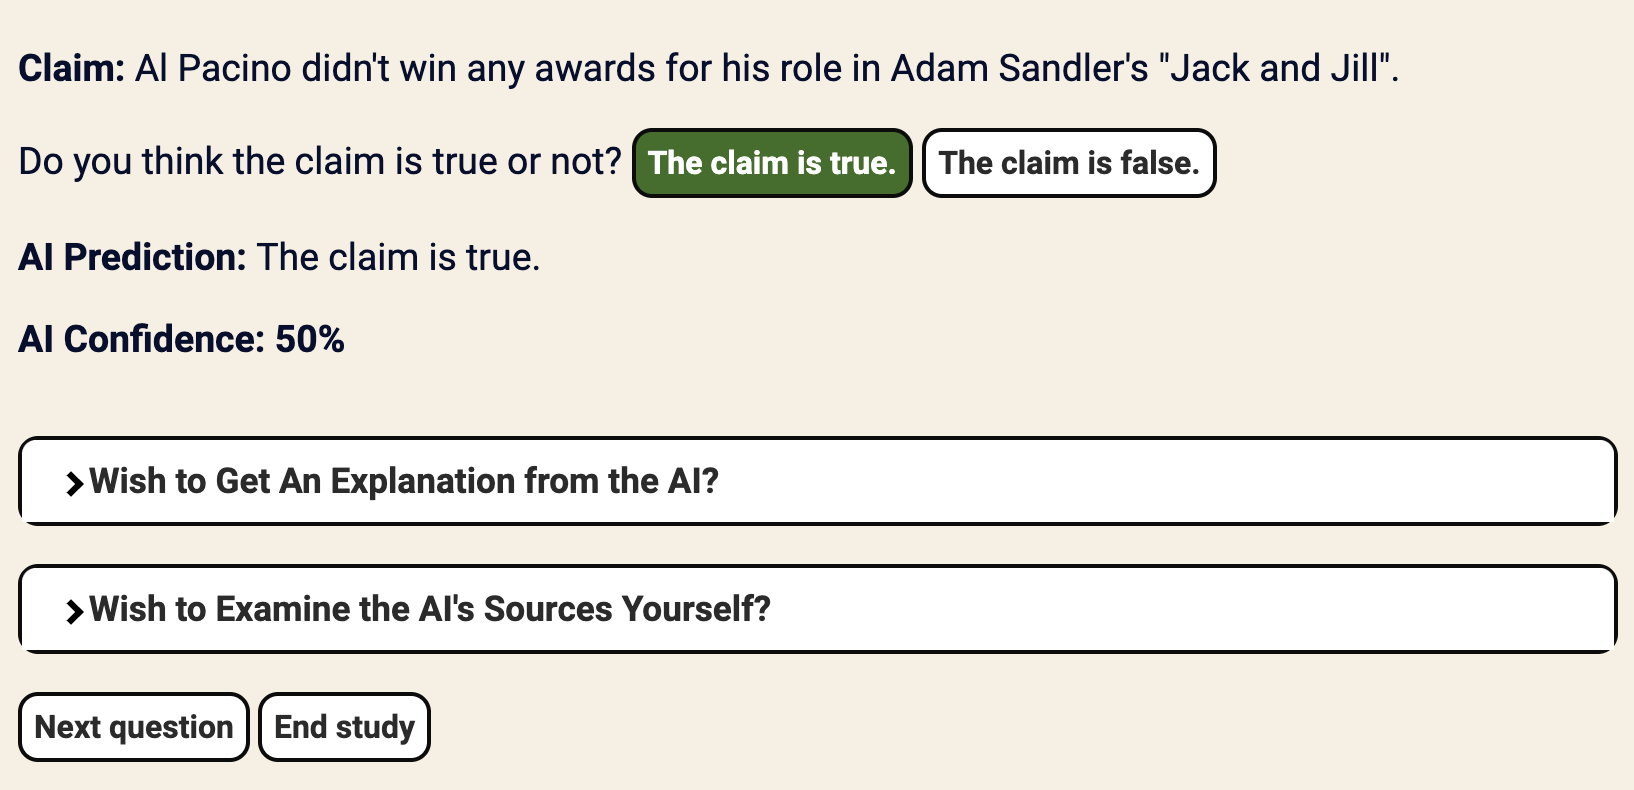
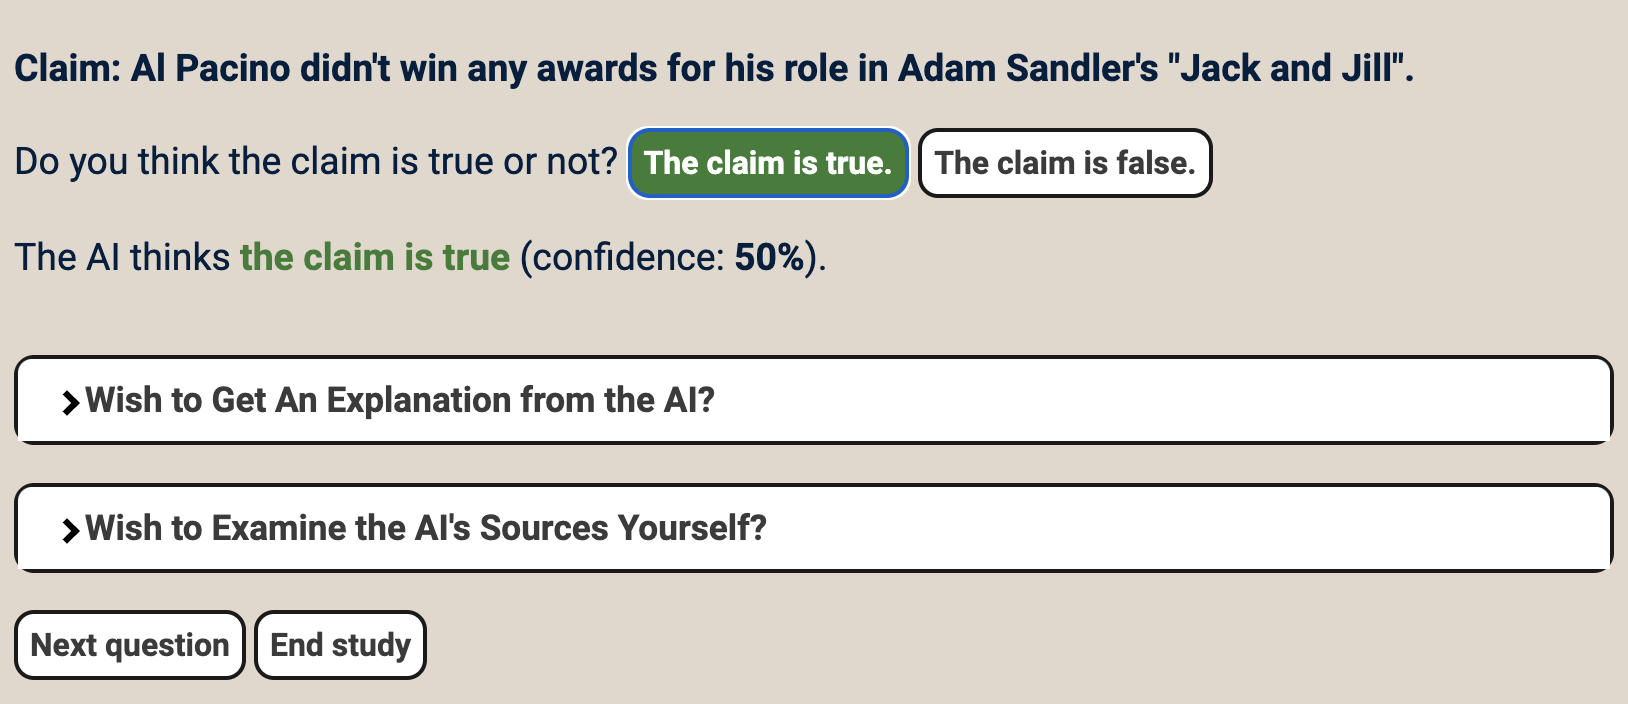
Study interface update

diff --git a/web/index.html b/web/index.html
@@ -23,9 +23,8 @@
             <div style="margin-top: 30px;  text-align: justify;">
                 <ul>
                     <li style="margin: 10px 0;">In this experiment, your task is to answer whether a claim is true or not, with assistance from an AI system.</li>
-                    <li style="margin: 10px 0;">If your decision is correct, you gain a reward of $0.10, otherwise you do not get a reward. You will see your total reward at the end of the experiment. Your payment is $1.0 plus whatever you accumulate during this experiment.</li>
-                    <li style="margin: 10px 0;">To help you make your decision, you will see the AI's prediction about the claim's veracity, along with a confidence score. You can also access an explanation from the AI, or manually examine the sources that the AI based its prediction on, by clicking the respective drop-down buttons. These additional decision aids may help you make your decision more confidently, but they will increase the time you spend on the task.</li>
-                    <li style="margin: 10px 0;">The experiment will have you verify 50 claims in total. If you wish to quit the study early (after a minimum of 20 questions), you can press the "End study" button, which will take you to the exit page, and a Google Form for an exit questionnaire. </li>
+                    <li style="margin: 10px 0;">If your decision is correct, you gain a reward of $0.10. You will see your total reward at the end of the experiment. Your payment is $2.0 plus whatever you accumulate during this experiment.</li>
+                    <li style="margin: 10px 0;">To help you make your decision, you will see the AI's prediction about the claim's veracity, along with a confidence score. You can optionally also view an explanation from the AI, or manually examine the sources that the AI based its prediction on, by clicking the respective drop-down buttons. These additional decision aids may help you make your decision more confidently, but they will increase the time you spend on the task.</li>
                 </ul>
 
             </div>
@@ -52,7 +51,7 @@
             <div id="reward_box_mock" style="display: none">
                 Your total reward is $0.00 (0 questions answered).
             </div>
-            Please complete the <a href="https://forms.gle/yvu96soZZ18P9ePY9"
+            Please complete the <a href="https://forms.gle/yvu96soZZ18P9ePY9" target="_blank"
             style="color: black; font-weight: bold;">exit questionnaire</a> for providing feedback on the user study.
         </div>
 
@@ -61,21 +60,20 @@
             <input id="button_instructions_next" type="button" value="Next" style="margin-bottom: 10px">
 
             <div id="instructions_0">Welcome to our user study. In this experiment, your task is to answer whether a claim is true or not, with assistance from an AI system. We will first walk you through an example question with
-                images and afterwards you will annotate upto 50 examples.
+                images, and afterwards you will answer upto 20 questions.
             </div>
             <div id="instructions_1">
-                You will be shown a claim, which may or may not be correct. Your job is to decide if the claim is true or not. If your decision is correct, you gain a reward of $0.10,otherwise you do not get a reward.
+                You will be shown a claim, which may or may not be correct. Your job is to decide if the claim is true or not. If your decision is correct, you gain a reward of $0.10, otherwise you do not get a reward.
                 <img src="img/instructions_1.png">
             </div>
             <div id="instructions_2">
-                To help you make your decision, you will also get to see whether an AI thinks the claim is true or not, along with a confidence score.
+                To help you make your decision, you will be assisted by an AI. The AI works by extracting a few source passages from online, and aggregating the evidence it finds from the different passages. Based on this evidence, the AI will tell you if it thinks the claim is true or not, along with a confidence score between 0% and 100%.
                 <img src="img/instructions_2.png">
             </div>
             <div id="instructions_3">
                 <ul>
-                    <li style="margin: 10px 0;">You will also have the option to access an explanation from the AI, and manually examine the sources that the AI based its prediction on.</li>
-                    <li style="margin: 10px 0;">You can access the explanation/sources by clicking the respective drop-down buttons.</li>
-                    <li style="margin: 10px 0;"><b>Once you select either of the "The claim is true/false" options, you will not be able to access the explanation/sources anymore!</b></li>
+                    <li style="margin: 10px 0;">If you need further help to make your decision, you also have the option to view an explanation from the AI, and/or manually examine the sources that the AI based its prediction on.</li>
+                    <li style="margin: 10px 0;">You can view the explanation/sources by clicking the respective drop-down buttons.</li>
                 </ul>
                 
                 <img src="img/instructions_3.png">
@@ -85,25 +83,26 @@
                     <li style="margin: 10px 0;">The explanation is a short passage generated by the AI, summarizing its reasoning behind its prediction.</li>
                     <li style="margin: 10px 0;">The sources are a set of passages that the AI examined to come to its prediction (some of which may not actually be relevant to verifying the claim).</li> 
                     <li style="margin: 10px 0;">Examining the explanation/sources yourself may help you make your decision more confidently, but they will increase the time you spend on the task.</li> 
-                    <li style="margin: 10px 0;"><b>Accessing the explanation/sources is purely optional, you should do so if you are fine spending a bit more time to make a more confident decision.</b></li>
+                    <li style="margin: 10px 0;"><b>Viewing the explanation/sources is purely optional, you should do so if you are fine spending a bit more time to make a more confident decision.</b></li>
                 </ul>
                 <br>
-                <img src="img/instructions_4.png">
+                <img src="img/instructions_4.gif">
             </div>
             <div id="instructions_5">
                 <ul>
-                    <li style="margin: 10px 0;">If your final decision is correct, you will receive a reward of $0.10. However, you will not get to see if your decision was correct or not, your cumulative reward will only be revealed to you at the end of the experiment.</li>
-                    <li style="margin: 10px 0;">The experiment will have you verify 50 claims in total. If you wish to quit the study early (after a minimum of 20 questions), you can press the "End study" button, which will take you to the exit page, and a Google Form for an exit questionnaire.</li>
+                    <li style="margin: 10px 0;">When you are ready to make a decision, click the "I am ready to answer" button, followed by your answer. <b>Once you say you are ready to answer, you will not be able to view the explanation/sources anymore!</b></li>
+                    <li style="margin: 10px 0;">If your answer is correct, you will receive a reward of $0.10. However, you will not get to see if your answer was correct or not, your cumulative reward will only be revealed to you at the end of the experiment.</li>
+                    <li style="margin: 10px 0;">The experiment will have you verify 20 claims in total.</li>
                 </ul>
                 <br>
-                <img src="img/instructions_5.png">
+                <img src="img/instructions_5.gif">
             </div>
             <div id="instructions_6">
                  <!-- For this annotation experiment we are looking
                 at trivia and math questions. Note that the system performance may differ across question types. -->
                 <span class='color_incorrect'><b>You are not permitted to leave this tab</b></span> for the duration of the experiment. This will be monitored and violation of this can result in your submission being rejected.
                 <span class='color_incorrect'><b>Do not use other external tools to help you with the answer</b></span>: rely solely on your own knowledge and the AI in this study. 
-                The average time of the experiment is 15--20 minutes.
+                The average time of the experiment is 10 minutes.
                 <br><br>
                 You will not be paid if you already participated in this study before.
                 <br><br>
@@ -118,24 +117,17 @@
 
         <div class="main_box" id="main_box_experiment" style="display: none">
             <h3>Claim: <span id="claim_span"></span></h3>
-            <div id="user_decision_div">
-                <p style="font-size: 1.17em;">Do you think the claim is true or not?
-                <input id="button_user_decision_claimtrue" type="button" class="button-neutral button-decision" value="The claim is true.">
-                <input id="button_user_decision_claimfalse" type="button" class="button-neutral button-decision" value="The claim is false.">
-                </p>
-            </div>
 
 
             <div id="ai_assistance_div">
-                <h3>AI Prediction: <span id="ai_prediction_span"></span></h3>
-                <h3>AI Confidence: <span id="ai_confidence_span">72%</span></h3>
+                <h3 style="font-weight: normal;">The AI thinks <span id="ai_prediction_span"></span> (confidence: <span id="ai_confidence_span">72%</span>).</h3>
             </div>
             <br>
             <div id="ai_explanation_div">
                 <!--<button class="dropbtn" id="ai_explanation_dropbtn">Wish to Get An Explanation from the AI?</button> -->
                 <p class="titlebar" id="ai_explanation_titlebar">
                     <i class="arrow right" id="ai_explanation_dropbtn"></i>
-                    <b>  Wish to Get An Explanation from the AI?</b>
+                    <b>  Wish to Read An Explanation from the AI?</b>
                 </p>
                 <p id="ai_explanation_dropdown">
                     <b>Explanation: </b><span id="ai_explanation_span">The AI system thinks that the answer is correct because...</span>
@@ -192,7 +184,16 @@
                     
                 </div>
             </div>
-            
+
+            <div id="user_decision_div">
+                <p style="font-size: 1.17em;">Do you think the claim is true or not?
+                <input id="button_readytoanswer" type="button" class="button-neutral button-decision" value="I am ready to answer.">
+                </p>
+                <input id="button_user_decision_claimtrue" type="button" class="button-neutral button-decision" value="The claim is true.">
+                <input id="button_user_decision_claimfalse" type="button" class="button-neutral button-decision" value="The claim is false.">
+            </div>
+
+
             <p style="font-size: 1.17em;" id="result_span"></p>
             
             <!-- <input id="button_place_bet" type="button" class="button-neutral" value="See the result"> -->

diff --git a/src/main.ts b/src/main.ts
@@ -26,9 +26,23 @@ function assert(condition, message) {
     }
 }
 
+function showChoices() {
+    $("#button_user_decision_claimtrue").show()
+    $("#button_user_decision_claimfalse").show()
+
+    $("#button_readytoanswer").attr("disabled", "true")
+    $("#button_readytoanswer").attr("activedecision", "true")
+}
+// Event listener for the button click
+document.getElementById('button_readytoanswer')?.addEventListener('click', showChoices);
+
+
 // Function to toggle the visibility of the div element
 function showExplanation() {
     if (time_final_decision != -1) {
+        return
+    }
+    if ($("#button_readytoanswer").attr("disabled")) {
         return
     }
 
@@ -58,24 +72,35 @@ function showAllSources() {
     if (time_final_decision != -1) {
         return
     }
+    if ($("#button_readytoanswer").attr("disabled")) {
+        return
+    }
 
     // Get the div element by its ID
     const div = document.getElementById('all_sources_div');
     if (div) {
         // Toggle the visibility
-        div.style.display = 'block';
+        div.style.display = (div.style.display == 'block') ? 'none' : 'block';
     }
     const button_div = document.getElementById('view_sources_dropbtn');
     if (button_div) {
         //Change the class to arrow vanish
-        button_div.className = 'arrow vanish';
+        button_div.className = (button_div.className == 'arrow right') ? 'arrow down' : 'arrow right';
     }
-    accessed_sources = true
-    time_to_access_sources = Date.now() - time_question_start
+    if (accessed_sources == false) {
+        accessed_sources = true
+        time_to_access_sources = Date.now() - time_question_start
+    }
 
     //$("#ai_explanation_dropdown").toggle()
-    $("#view_sources_titlebar").attr("disabled", "true")
-    $("#view_sources_titlebar").attr("activedecision", "true")
+    //$("#view_sources_titlebar").attr("disabled", "true")
+    if (($("#view_sources_titlebar").attr("activedecision") == "false") || ($("#view_sources_titlebar").attr("activedecision") == null)) {
+        $("#view_sources_titlebar").attr("activedecision", "true")
+    }
+    else {
+        $("#view_sources_titlebar").attr("activedecision", "false")
+    }
+    //$("#view_sources_titlebar").attr("activedecision", "true")
 }
 
 // Event listener for the button click
@@ -85,23 +110,28 @@ function showSource(source_num: number) {
     if (time_final_decision != -1) {
         return
     }
-    
+    if ($("#button_readytoanswer").attr("disabled")) {
+        return
+    }
+
     // Get the div element by its ID
     const div = document.getElementById(`source_${source_num}_span`);
     if (div) {
         // Toggle the visibility
-        div.style.display = 'block';
+        div.style.display = (div.style.display == 'block') ? 'none' : 'block';
     }
     const button_div = document.getElementById(`source_${source_num}_dropbtn`);
     if (button_div) {
         //Change the class to arrow down
-        button_div.className = 'arrow down';
+        button_div.className = (button_div.className == 'arrow right') ? 'arrow down' : 'arrow right';
     }
-    accessed_individual_source[source_num] = true
-    time_to_access_individual_source[source_num] = Date.now() - time_question_start
+    if (accessed_individual_source[source_num] == false) {
+        accessed_individual_source[source_num] = true
+        time_to_access_individual_source[source_num] = Date.now() - time_question_start
+    }
     //$("#ai_explanation_dropdown").toggle()
-    $(`#source_${source_num}_titlebar`).attr("disabled", "true")
-    $(`#source_${source_num}_titlebar`).attr("activedecision", "true")
+    //$(`#source_${source_num}_titlebar`).attr("disabled", "true")
+    //$(`#source_${source_num}_titlebar`).attr("activedecision", "true")
 }
 
 // Event listener for the button click
@@ -122,15 +152,9 @@ function updateUserDecision(user_decision: boolean) {
 
         time_final_decision = Date.now() - time_question_start
 
-        $("#ai_explanation_titlebar").attr("disabled", "true")
-        $("#view_sources_titlebar").attr("disabled", "true")
-        for (let source_num = 0; source_num < 10; source_num++) {
-            $(`#source_${source_num}_titlebar`).attr("disabled", "true")
-        }
-
         $("#button_next").show()
         $("#button_next").removeAttr("disabled")
-        if (question_i >= 0) {
+        if (question_i >= 19) {
             $('#button_quit').show()
             $('#button_quit').removeAttr("disabled")
         }
@@ -309,10 +333,16 @@ function show_result() {
 function next_question() {
     // restore previous state of UI
 
+    $("#button_readytoanswer").removeAttr("activedecision")
+    $("#button_readytoanswer").removeAttr("disabled")
+    $("#button_readytoanswer").show()
+
     $("#button_user_decision_claimtrue").removeAttr("activedecision")
     $("#button_user_decision_claimfalse").removeAttr("activedecision")
     $("#button_user_decision_claimtrue").removeAttr("disabled")
     $("#button_user_decision_claimfalse").removeAttr("disabled")
+    $("#button_user_decision_claimtrue").hide()
+    $("#button_user_decision_claimfalse").hide()
 
     $("#ai_explanation_dropbtn").removeAttr("disabled")
     $("#ai_explanation_dropbtn").removeAttr("activedecision")
@@ -368,7 +398,7 @@ function next_question() {
     question = data[question_i]
 
     $("#claim_span").html(question!["claim"])
-    let ai_prediction = question!["llm_prediction"] ? "The claim is true." : "The claim is false."
+    let ai_prediction = question!["llm_prediction"] ? "<span style=\"color:#347e32\">the claim is true</span>" : "<span style=\"color:#e63232\">the claim is false</span>"
     $("#ai_prediction_span").html(ai_prediction)
     $("#ai_confidence_span").html(question!["llm_confidence"])
 

diff --git a/web/style.css b/web/style.css
@@ -8,7 +8,7 @@ body {
 }
 
 .main_box {
-    background-color: white;
+    background-color: white; 
     border: 2px solid #1A1A1A;
     border-radius: 10px;
     padding: 10px;
@@ -35,8 +35,8 @@ body {
 
 #claim_span,
 #ai_prediction_span,
-#confidence_span {
-    font-weight: normal;
+#ai_confidence_span {
+    font-weight: bold;
 }
 
 #range_text {
@@ -68,6 +68,12 @@ input[type="button"]:hover:not([disabled]) {
 
 .button-decision {
     font-size: 1.1em;
+}
+
+#button_readytoanswer:hover:not([disabled]),
+#button_readytoanswer[activedecision="true"] {
+    color: #fff;
+    background-color: #000000;
 }
 
 #button_user_decision_claimtrue:hover:not([disabled]),
@@ -206,8 +212,8 @@ input[type="button"]:hover:not([disabled]) {
 }
   
 .down {
-    transform: rotate(45deg);
-    -webkit-transform: rotate(45deg);
+    transform: rotate(45deg) translate(30px);
+    -webkit-transform: rotate(45deg) translate(-5px, 2px);
 }
 
 .vanish {
